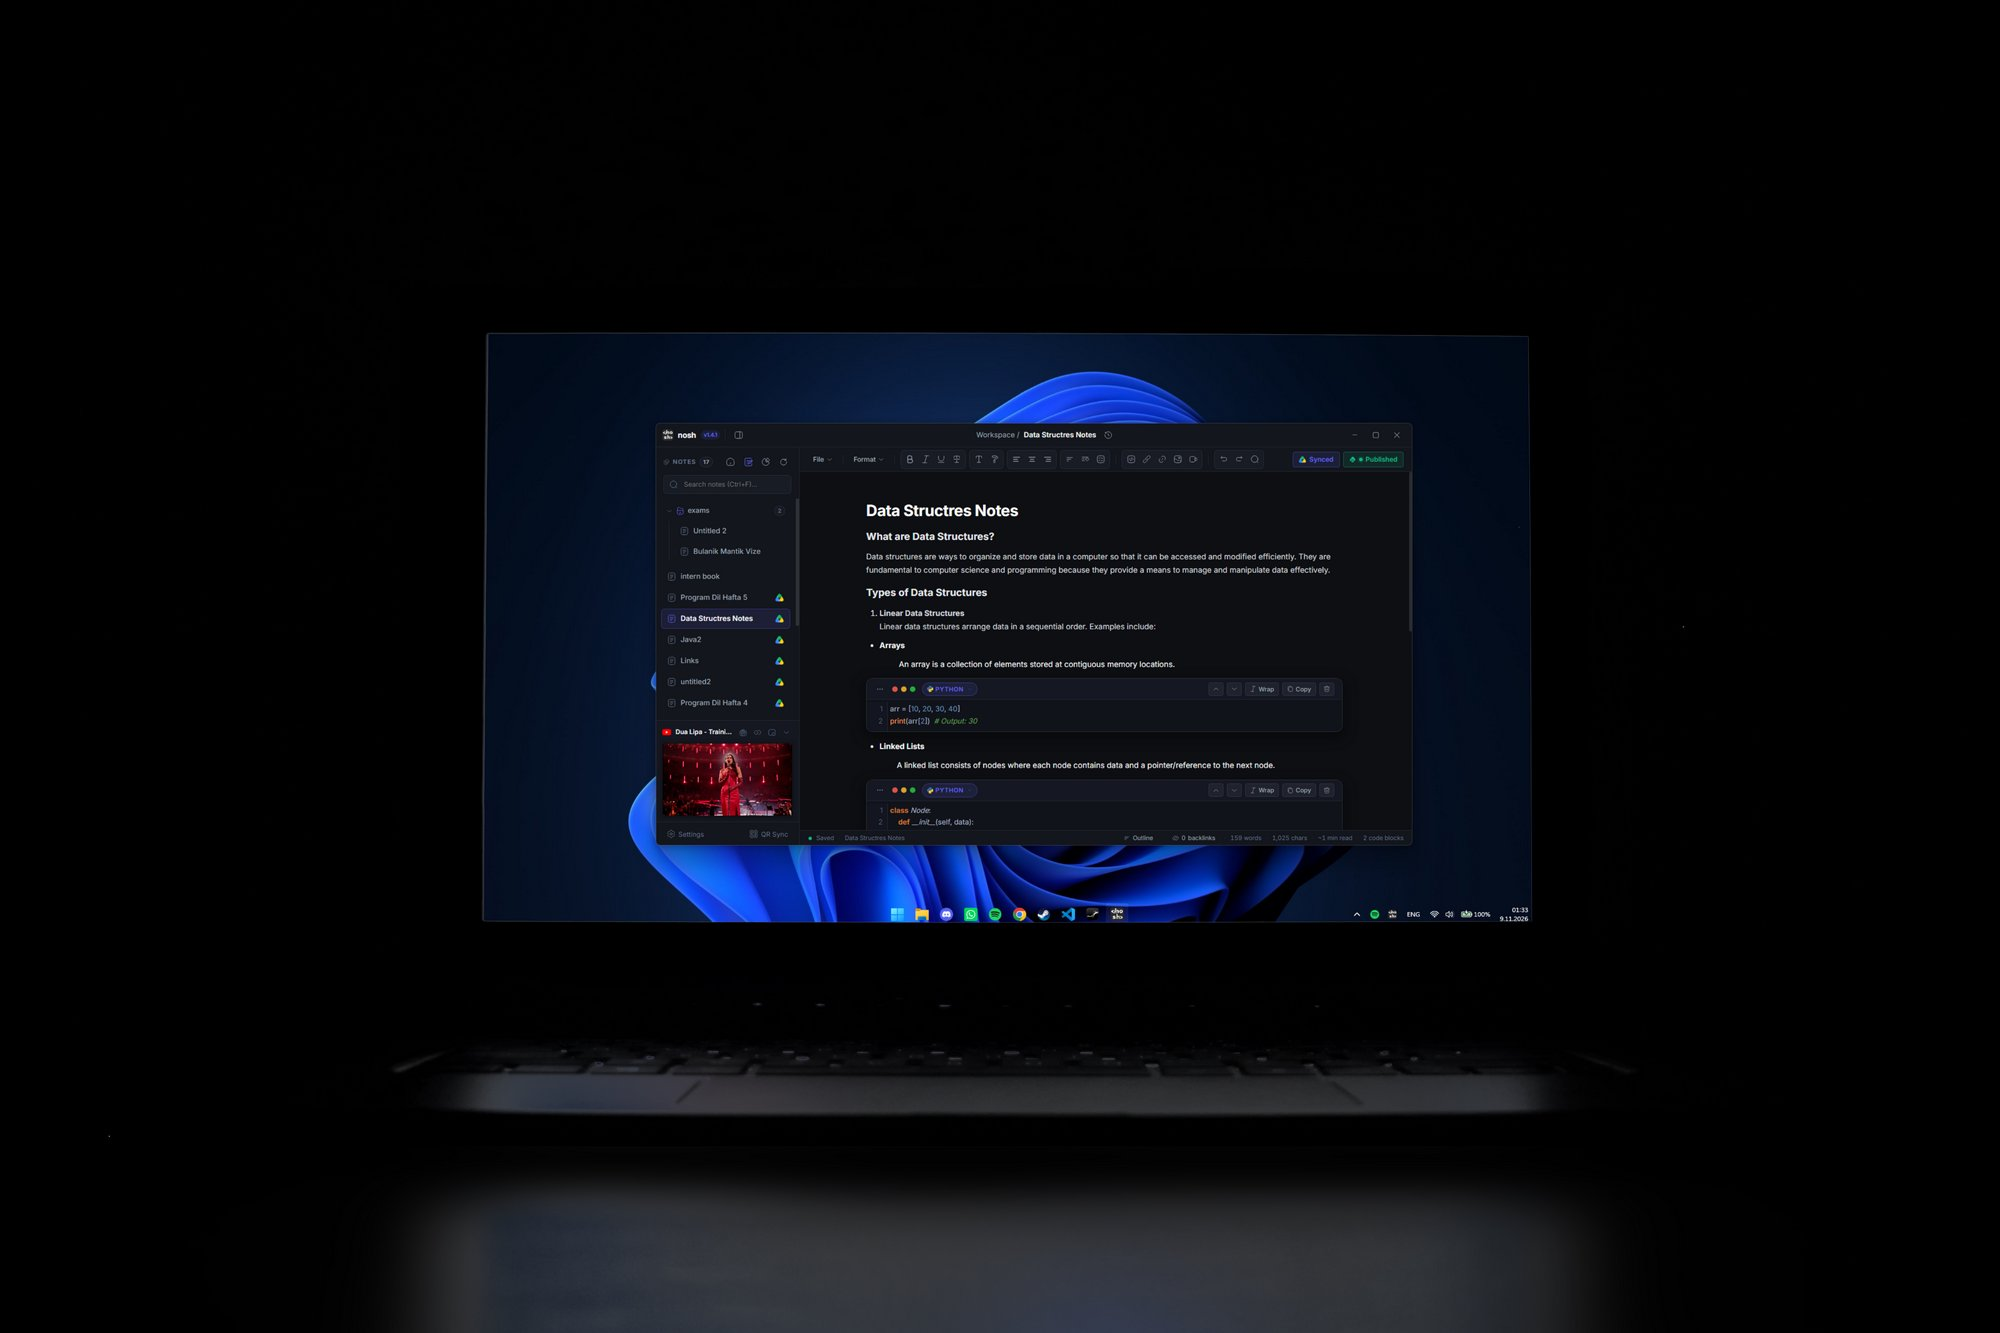
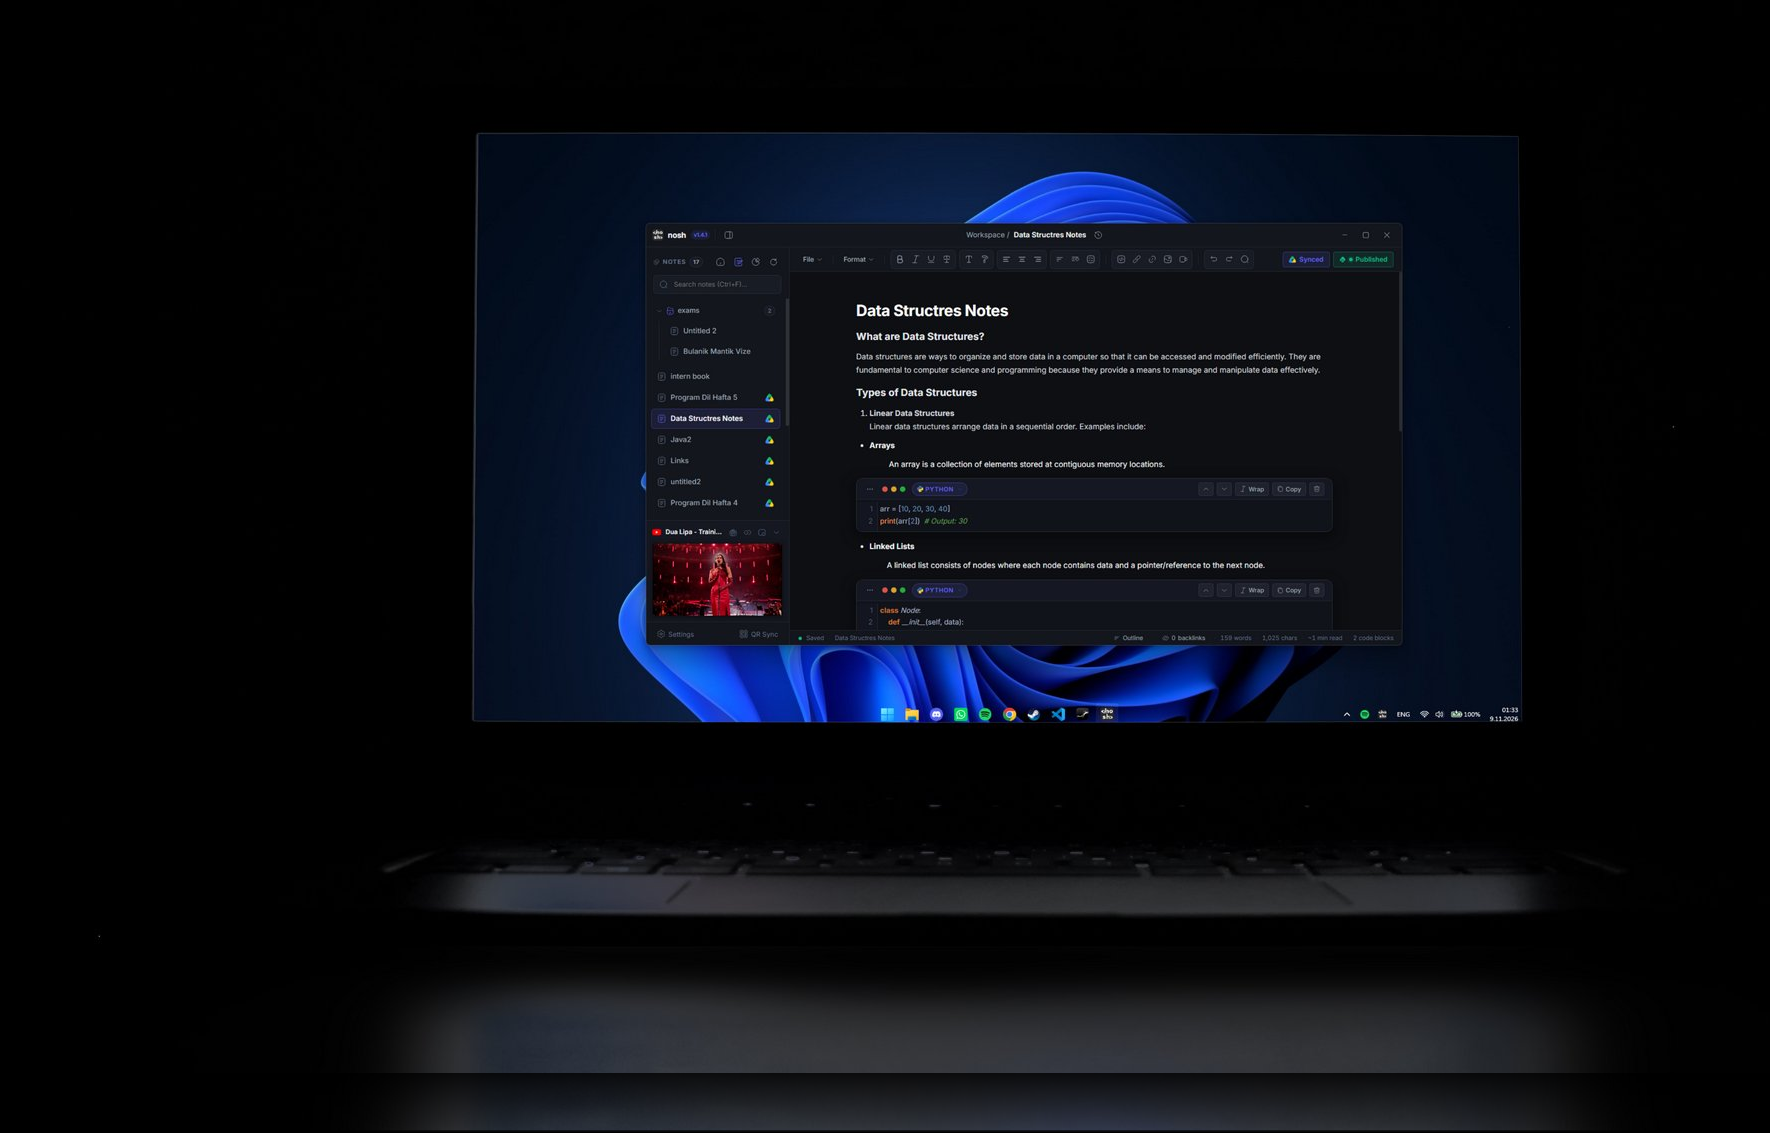
style: blend hero background with pure black and refine mockup height & proportions

diff --git a/style.css b/style.css
@@ -88,7 +88,7 @@ a {
     left: 0;
     width: 100%;
     height: 68px;
-    background: rgba(9, 10, 15, 0.85);
+    background: rgba(0, 0, 0, 0.88);
     backdrop-filter: blur(14px);
     -webkit-backdrop-filter: blur(14px);
     border-bottom: 1px solid var(--border-subtle);
@@ -221,32 +221,30 @@ a {
 .hero-section {
     position: relative;
     padding-top: 68px; /* Nav bar offset */
-    height: 100vh;
-    min-height: 640px;
+    min-height: 100vh;
     display: flex;
     align-items: center;
-    background: 
-        radial-gradient(circle at 85% 50%, rgba(99, 102, 241, 0.08) 0%, transparent 60%),
-        radial-gradient(circle at 10% 80%, rgba(56, 189, 248, 0.04) 0%, transparent 50%),
-        var(--bg-canvas);
+    background: #000000;
     border-bottom: 1px solid var(--border-subtle);
     overflow: hidden;
 }
 
 .hero-layout {
     width: 100%;
-    height: calc(100vh - 68px);
+    min-height: calc(100vh - 68px);
     display: flex;
     align-items: center;
     justify-content: space-between;
     padding-left: clamp(2rem, 5.5vw, 6rem);
-    padding-right: 0; /* Sticks flush to the right edge */
+    padding-right: clamp(1.5rem, 3.5vw, 4rem);
+    padding-top: 2rem;
+    padding-bottom: 2.5rem;
     gap: 2.5rem;
 }
 
 .hero-content {
-    flex: 0 0 min(565px, 46%);
-    max-width: 565px;
+    flex: 0 0 min(540px, 44%);
+    max-width: 540px;
     display: flex;
     flex-direction: column;
     align-items: flex-start;
@@ -325,27 +323,25 @@ a {
     margin-top: 0.15rem;
 }
 
-/* Mockup Pane (Stuck to right, matched to window height) */
+/* Mockup Pane (Framed cleanly in right column with seamless black background) */
 .hero-mockup-pane {
     flex: 1 1 auto;
-    height: 100%;
     display: flex;
     align-items: center;
-    justify-content: flex-end;
+    justify-content: center;
     position: relative;
     z-index: 1;
-    overflow: hidden;
+    overflow: visible;
 }
 
 .hero-mockup-image {
-    height: 100%;
-    max-height: calc(100vh - 72px);
-    width: auto;
-    max-width: 100%;
+    width: 100%;
+    max-width: 920px;
+    height: auto;
+    max-height: calc(100vh - 120px);
     object-fit: contain;
-    object-position: right center;
+    object-position: center;
     display: block;
-    filter: drop-shadow(-16px 16px 45px rgba(0, 0, 0, 0.75));
     user-select: none;
     -webkit-user-drag: none;
 }
